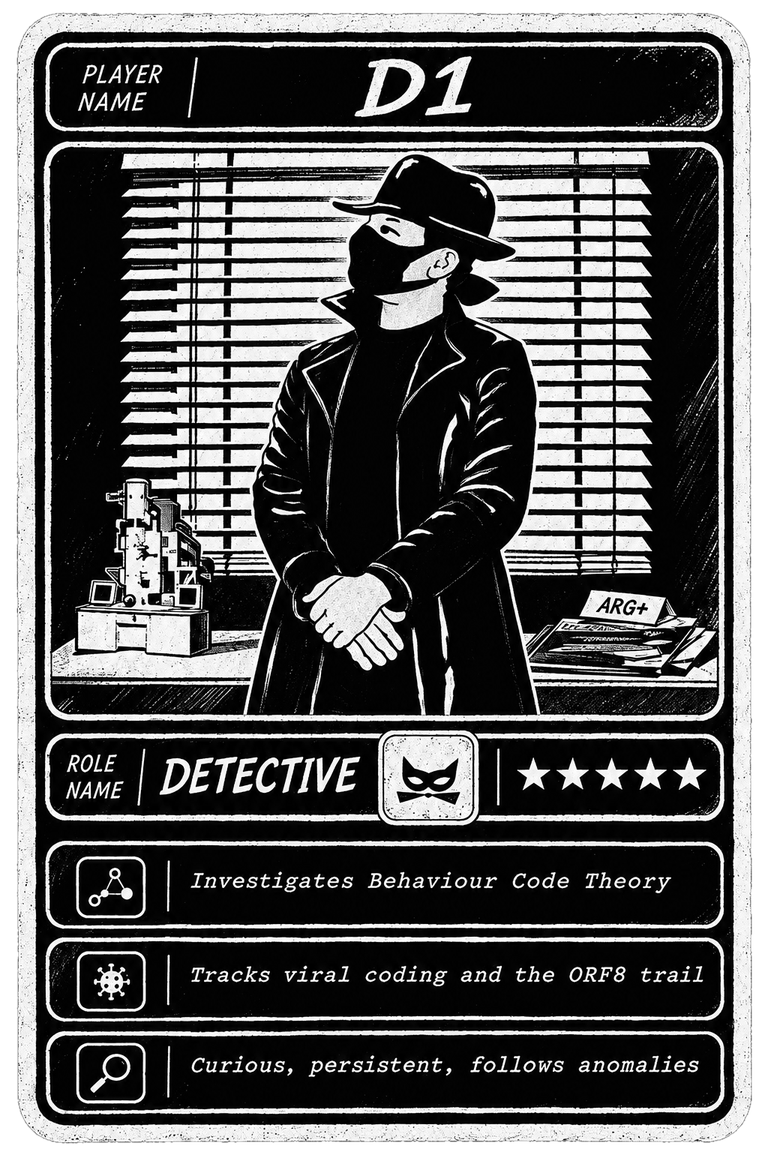
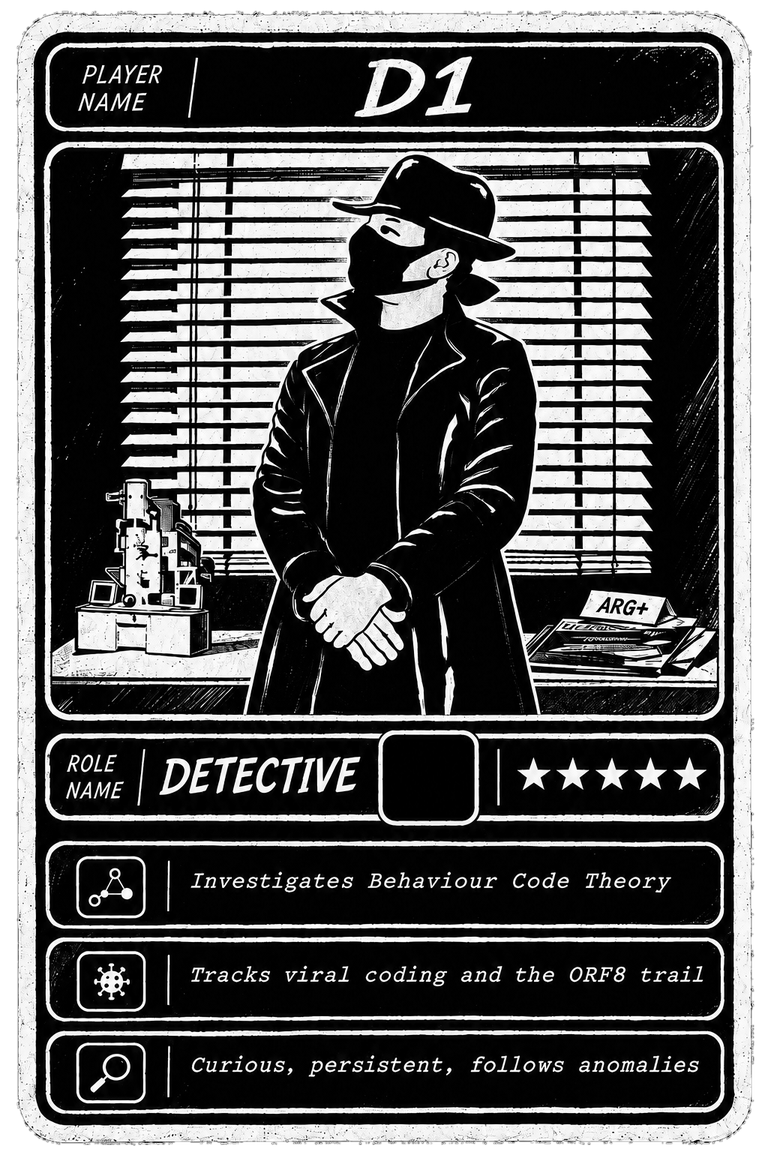
Real Shows drawer art, new Shows/Collectibles notes, AR Zone page, collectibles grid, updated cards

diff --git a/src/data/hotspots.js b/src/data/hotspots.js
@@ -63,9 +63,9 @@ export const hotspots = [
     note: {
       title: 'Shows',
       body: [
-        'Shows are where the case leaves the screen. Each one is a live, location-based event — part scavenger hunt, part performance — where the Detectives (that’s you) follow a lead into a real place at a real time.',
-        'No two shows run the same script. What you find depends on who shows up, what they notice, and what they choose to do with it — the case reacts to the room, not the other way around.',
-        'Dates and locations get posted here and on the office monitor’s NEXT EVENT feed once they’re locked in. Check back — the window between announcement and show is usually short on purpose.',
+        'Shows are where the case leaves the screen. In Part 1 you first solve a treasure hunt game on your phone to find the venue — the entry point is Helix Core, a Genome Interface Access Point.',
+        'Inside, the venue is a reverse escape room. Players solve puzzles to gain access to the rooms, and clues are hidden within two displays: one at human height, the other at the height of a cat. To finish, players insert a code within the Nucleus.',
+        'Completing Part 1 gives access to Part 2: the alternating reality game (ARG+) and its secret second venue, where teams can become either detectives or viral agents.',
       ],
     },
   },
@@ -80,9 +80,9 @@ export const hotspots = [
     note: {
       title: 'Collectibles',
       body: [
-        'Every case generates evidence, and some of it is built to hold in your hands. The first piece is the case file itself — a printed cover that comes alive under the AR Viewer, revealing the maze hidden inside its artwork.',
-        'Future collectibles follow the same rule: they have to work as physical objects first, digital extensions second. A book that’s actually readable. A marker that’s actually a marker. Nothing exists purely to be scanned.',
-        'What’s been found so far gets listed here as it’s confirmed — check the AR Zone on the shelf for the pieces that are live right now.',
+        'Every collectible is a numbered limited edition and comes with a certificate of authentication.',
+        'Acrylic light box dioramas, custom made to order with LED strips. Limited edition posters, hand screenprinted on quality cartridge paper. T-shirts in a range of sizes, with tighter-fit and child options. Shadow boxes, pre-made or as cut-yourself card sheets.',
+        'Table cut-outs, made from acrylic with their own stands. Cards, as flat cards or pop-ups. Fridge magnets, individually or in packs. Stickers, in a wide variety of collectible packs.',
       ],
     },
   },

diff --git a/src/data/collectibles.js b/src/data/collectibles.js
@@ -1,0 +1,50 @@
+export const collectibles = [
+  {
+    "slug": "fridge-magnets",
+    "name": "Fridge magnets",
+    "description": "Can be ordered individually or in packs.",
+    "image": "/images/collectibles/fridge-magnets.png"
+  },
+  {
+    "slug": "stickers",
+    "name": "Stickers",
+    "description": "A wide variety to choose from as collectible packs.",
+    "image": "/images/collectibles/stickers.png"
+  },
+  {
+    "slug": "table-cutouts",
+    "name": "Table cut-outs",
+    "description": "Made from acrylic with their own stands.",
+    "image": "/images/collectibles/table-cutouts.png"
+  },
+  {
+    "slug": "cards",
+    "name": "Cards",
+    "description": "Made as either flat cards or as pop-ups.",
+    "image": "/images/collectibles/cards.png"
+  },
+  {
+    "slug": "limited-edition-posters",
+    "name": "Limited edition posters",
+    "description": "Hand screenprinted on quality cartridge paper.",
+    "image": "/images/collectibles/limited-edition-posters.png"
+  },
+  {
+    "slug": "t-shirts",
+    "name": "T-shirts",
+    "description": "Available in a range of sizes, with options for tighter fitting and child sizes.",
+    "image": "/images/collectibles/t-shirts.png"
+  },
+  {
+    "slug": "shadow-boxes",
+    "name": "Shadow boxes",
+    "description": "Either pre-made or as cut-yourself card sheets.",
+    "image": "/images/collectibles/shadow-boxes.png"
+  },
+  {
+    "slug": "acrylic-light-box-dioramas",
+    "name": "Acrylic light box dioramas",
+    "description": "Custom made to order with LED strips.",
+    "image": "/images/collectibles/acrylic-light-box-dioramas.png"
+  }
+];
